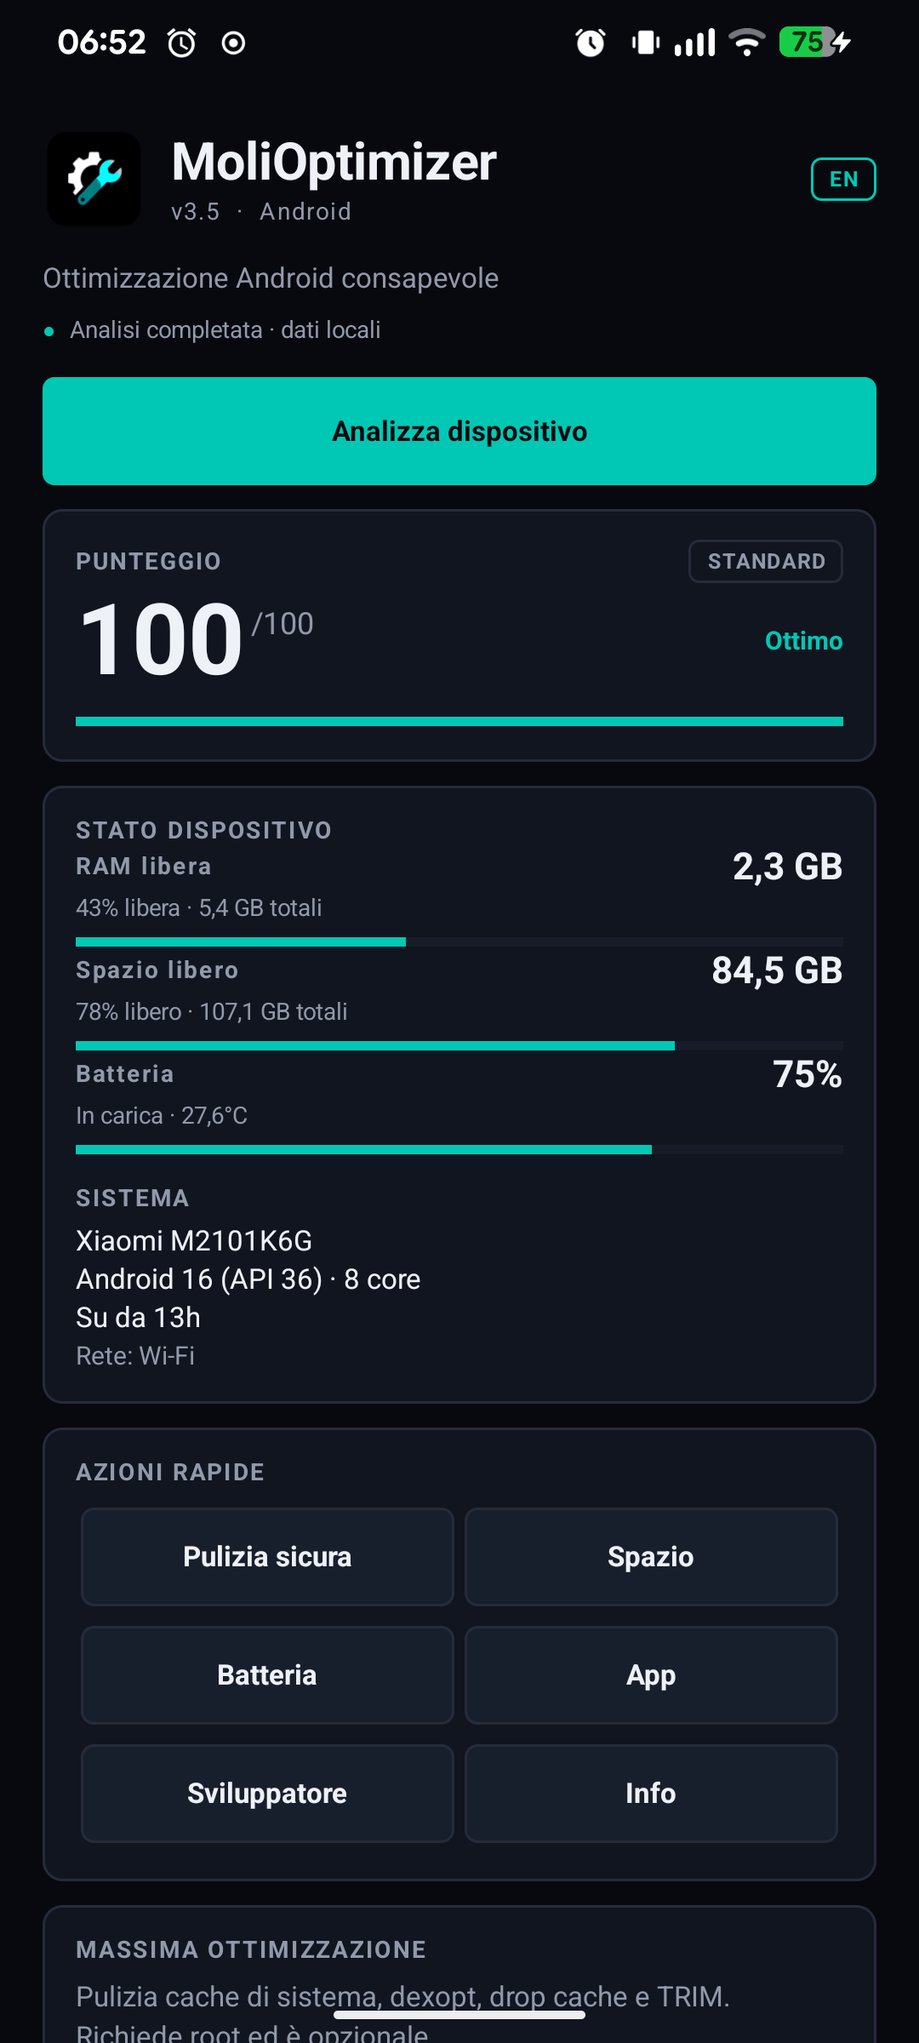
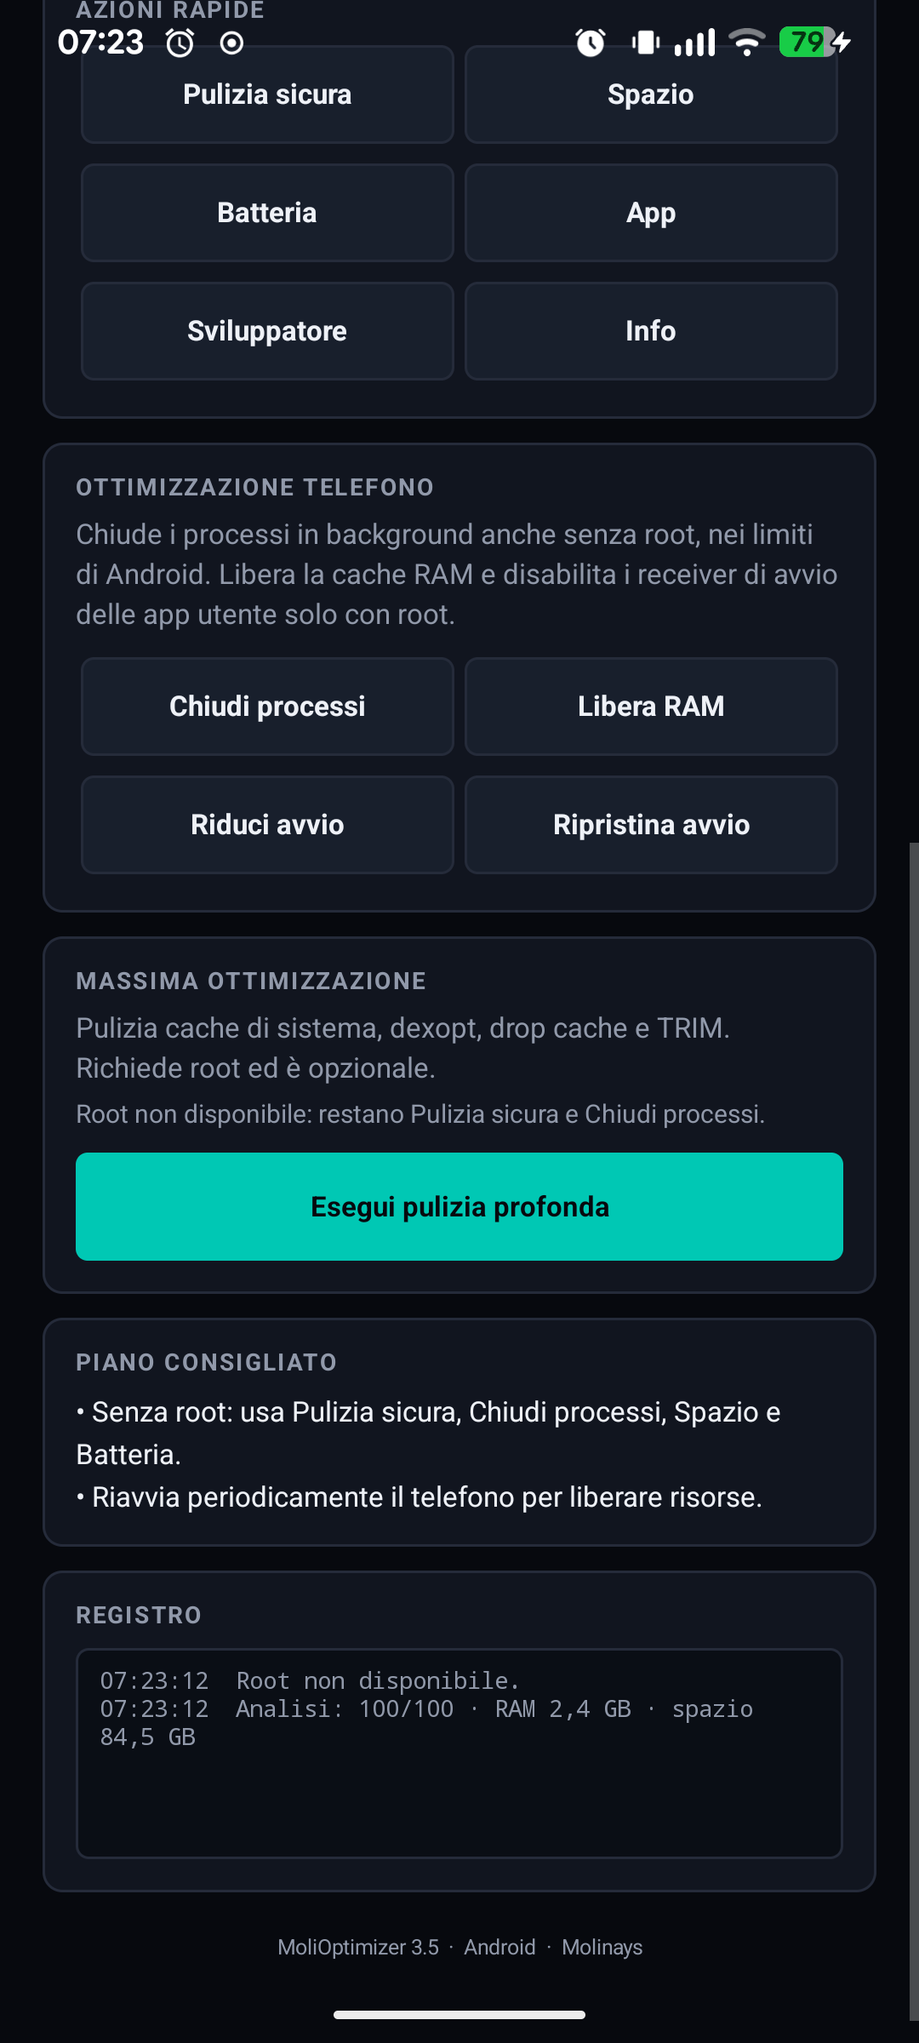
Add files via upload

diff --git a/README.md b/README.md
@@ -2,7 +2,7 @@
   <img src="docs/images/logo.png" alt="MoliOptimizer" width="112" height="112">
 </p>
 
-<h1 align="center">MoliOptimizer 3.5</h1>
+<h1 align="center">MoliOptimizer 4.0</h1>
 
 <p align="center">
   <strong>Ottimizzazione Windows su misura, con backup e ripristino.</strong><br>
@@ -12,7 +12,7 @@
 <p align="center">
   <img alt="Platform" src="https://img.shields.io/badge/PLATFORM-WINDOWS%207%20%7C%2010%20%7C%2011-0078D4?style=for-the-badge&logo=windows&logoColor=white">
   <img alt="Android" src="https://img.shields.io/badge/ANDROID-7%2B-3DDC84?style=for-the-badge&logo=android&logoColor=white">
-  <img alt="Version" src="https://img.shields.io/badge/VERSION-3.5.0-2563EB?style=for-the-badge">
+  <img alt="Version" src="https://img.shields.io/badge/VERSION-4.0.0-2563EB?style=for-the-badge">
   <img alt="Engine" src="https://img.shields.io/badge/ENGINE-POWERSHELL%205.1-5391FE?style=for-the-badge&logo=powershell&logoColor=white">
   <img alt="License" src="https://img.shields.io/badge/LICENSE-PROPRIETARY-DC2626?style=for-the-badge">
 </p>
@@ -20,7 +20,7 @@
 <p align="center">
   <a href="https://github.com/Molinays/MoliOptimizer/releases/latest"><strong>Download</strong></a>
   &nbsp;·&nbsp;
-  <a href="#novità-in-35">Novità 3.5</a>
+  <a href="#novità-in-40">Novità 4.0</a>
   &nbsp;·&nbsp;
   <a href="#funzioni">Funzioni</a>
   &nbsp;·&nbsp;
@@ -38,29 +38,27 @@
 ## Screenshot
 
 <p align="center">
-  <img src="docs/images/web-3.5.png" alt="MoliOptimizer Web 3.5 - Ottimizzazioni" width="900">
+  <img src="docs/images/web-4.0.png" alt="MoliOptimizer Web 4.0 - Ottimizzazioni" width="900">
 </p>
 
-<p align="center"><sub>MoliOptimizer Web 3.5 su Windows: piano personalizzato, stato del PC e console del motore.</sub></p>
+<p align="center"><sub>MoliOptimizer Web 4.0 su Windows: piano personalizzato, stato del PC e console del motore.</sub></p>
 
 <p align="center">
-  <img src="docs/images/fast-3.5.png" alt="MoliOptimizerFast 3.5 - Ottimizzazioni" width="900">
+  <img src="docs/images/android-4.0.png" alt="MoliOptimizer 4.0 su Android" width="300">
 </p>
 
-<p align="center"><sub>MoliOptimizerFast 3.5: interfaccia WinForms nativa, scansione reale e piano consigliato.</sub></p>
+<p align="center"><sub>MoliOptimizer 4.0 su Android: azioni per processi, RAM, avvio, animazioni e cache di sistema.</sub></p>
 
 ---
 
-## Novità in 3.5
+## Novità in 4.0
 
-- **Build 3.5.** Riallineati Windows, web, launcher e Android alla versione `3.5.0`, con rebuild completo e checksum aggiornati.
-- **Popup Fast finalmente cliccabili.** Il filtro globale dei click veniva sospeso solo per le finestre normali, non per i dialoghi modali: ora conferma e resoconto restano interattivi e il filtro viene ripristinato alla chiusura.
-- **Popup più compatti.** Eliminati kicker e spaziature superflue; i messaggi lunghi hanno un'area scorrevole e i pulsanti hanno un click esplicito.
-- **Icona ufficiale ovunque.** Splash, finestra principale e taskbar usano l'icona della v1, non più il segnaposto predefinito di WinForms.
-- **GUI web più sobria.** Rimossi sottotitoli, punteggi duplicati e scritte promozionali; angoli a 3 px, niente gradienti o animazioni decorative.
-- **Distribuzione più lineare.** Fast usa un host .NET in-process senza `ps2exe`; Web e WebSingle servono la UI dalla memoria senza aprire un server HTTP locale.
-- **Versione e documentazione allineate.** Titoli, manifest, pacchetto web, build single-file e controllo aggiornamenti riportano `3.5.0`.
-- **Edizione Android 3.5.** APK nativa separata, con scansione del dispositivo, piano locale, pulizia sicura e modalità root opzionale. Vedi [android/README.md](android/README.md).
+- **Build 4.0 ufficiale.** Windows, web, launcher e Android sono allineati a `4.0.0`; gli artefatti stanno in `dist/v4`.
+- **Fast IT/EN protette.** Il bundle PowerShell non è più in chiaro: viene compresso con GZip, cifrato con AES-256-CBC, autenticato con HMAC-SHA256 e incorporato come risorsa binaria.
+- **Web protette.** Web Host e WebSingle usano il payload cifrato (`Runtime.bin`) e il self-test verifica payload, UI, bridge e runtime.
+- **Android più operativo.** R8 offusca il DEX; nuove azioni root per cache di sistema, animazioni, processi, RAM e receiver di avvio. Senza root resta la chiusura dei processi tramite `killBackgroundProcesses`.
+- **Build più verificabile.** Ogni artefatto ha checksum SHA-256 separato; la build esegue self-test di Fast, Web Host e WebSingle.
+- **Nessuna promessa di zero rilevazioni.** L'offuscamento protegge il codice, ma può aumentare le euristiche antivirus. Firma trusted e riclassificazione vendor restano necessarie per i falsi positivi.
 
 ---
 
@@ -68,14 +66,23 @@
 
 | Pacchetto | Formato | Piattaforma | Note |
 |---|---|---|---|
-| **MoliOptimizer** · `MoliOptimizer.exe` | `.exe` singolo (1,47 MB) | Windows 10/11 x64 | Launcher nativo; estrae host e DLL in `%LOCALAPPDATA%`; richiede WebView2 Runtime |
-| **MoliOptimizer Web Host** · `MoliOptimizer-Web.exe` | `.exe` + DLL WebView2 (427 KB) | Windows 10/11 x64 | Avvio rapido; va eseguito dalla propria cartella |
-| **MoliOptimizerFast IT** · `MoliOptimizerFast-IT.exe` | `.exe` (364 KB) | Windows 7/10, PowerShell 5.1 | Host .NET in-process, payload in chiaro, nessun WebView2, interfaccia italiana |
-| **MoliOptimizerFast EN** · `MoliOptimizerFast-EN.exe` | `.exe` (408 KB) | Windows 7/10, PowerShell 5.1 | Host .NET in-process, payload in chiaro, nessun WebView2, interfaccia inglese |
+| **MoliOptimizer** · `MoliOptimizer.exe` | `.exe` singolo (1,47 MB) | Windows 10/11 x64 | Launcher nativo; host WebView2 protetto; estrae host e DLL in `%LOCALAPPDATA%`; richiede WebView2 Runtime |
+| **MoliOptimizer Web Host** · `MoliOptimizer-Web.exe` | `.exe` + DLL WebView2 (427 KB) | Windows 10/11 x64 | Host WebView2; va eseguito dalla propria cartella |
+| **MoliOptimizerFast IT** · `MoliOptimizerFast-IT.exe` | `.exe` (124 KB) | Windows 7/10, PowerShell 5.1 | Host .NET in-process, payload cifrato, nessun WebView2, interfaccia italiana |
+| **MoliOptimizerFast EN** · `MoliOptimizerFast-EN.exe` | `.exe` (137 KB) | Windows 7/10, PowerShell 5.1 | Host .NET in-process, payload cifrato, nessun WebView2, interfaccia inglese |
 
-Scarica l'ultima release da [GitHub Releases](https://github.com/Molinays/MoliOptimizer/releases/latest). Gli hash SHA-256 sono pubblicati in `dist/v3/SHA256SUMS.txt`.
+Scarica l'ultima release da [GitHub Releases](https://github.com/Molinays/MoliOptimizer/releases/latest). Gli hash SHA-256 sono pubblicati in `dist/v4/SHA256SUMS.txt`.
 
 Nessun installer e nessun servizio persistente. La scansione iniziale è in sola lettura; le modifiche richiedono selezione, conferma e, per le operazioni privilegiate, UAC.
+
+### Cosa c'è in `dist/v4`
+
+- `MoliOptimizer.exe` è la **WebSingle**: un solo file con launcher nativo, host WebView2 e DLL incorporati. Non è una copia di `web/`; estrae il pacchetto in `%LOCALAPPDATA%\MoliOptimizer\WebSingle\4.0.0-*` e avvia l'host.
+- `web/MoliOptimizer-Web.exe` è l'**host WebView2**: va eseguito con le DLL WebView2 che ha accanto. È la variante da cartella, più piccola.
+- `classic/` contiene **MoliOptimizerFast** IT/EN, l'edizione WinForms per Windows 7/10 con PowerShell 5.1.
+- `SHA256SUMS.txt` copre tutti gli exe della release.
+
+La vecchia `dist/v3` resta solo come archivio della serie 3.5.
 
 ---
 
@@ -83,17 +90,15 @@ Nessun installer e nessun servizio persistente. La scansione iniziale è in sola
 
 La cartella [`android/`](android/README.md) contiene una **APK nativa per Android 7+**, separata dalla release Windows. Non è un porting 1:1: Android non ha registro o servizi Windows, quindi l'app implementa le azioni realmente disponibili.
 
-<p align="center">
-  <img src="docs/images/android-3.5.png" alt="MoliOptimizer 3.5 su Android" width="300">
-</p>
-
 - Scansione di RAM, spazio, batteria, temperatura, rete e sistema con punteggio locale.
 - Piano consigliato e toggle IT/EN.
 - Pulizia sicura della cache dell'app e scorciatoie alle impostazioni di sistema.
-- Modalità root opzionale per `pm trim-caches`, dexopt, `drop_caches` e `fstrim`.
-- Nessun permesso Internet, nessun analytics, nessuna connessione in background.
+- **Chiusura dei processi in background anche senza root**, nei limiti di `killBackgroundProcesses`.
+- **Con root**: `am kill-all`, pulizia cache RAM, pulizia cache di sistema, riduzione animazioni, disabilitazione dei receiver di avvio delle app utente e ripristino.
+- **Pulizia profonda** con `am kill-all`, `pm trim-caches`, dexopt, `drop_caches` e `fstrim`.
+- DEX offuscato con R8; nessun permesso Internet, nessun analytics, nessuna connessione in background.
 
-APK generato in `android/dist/MoliOptimizer-3.5.0-android.apk` (cartella locale, esclusa da Git) con checksum separato. Istruzioni e limiti: [`android/README.md`](android/README.md). La build è firmata con chiave debug per il test; per la distribuzione serve una chiave release.
+APK generato in `android/dist/MoliOptimizer-4.0.0-android.apk` (cartella locale, esclusa da Git) con checksum separato. Istruzioni e limiti: [`android/README.md`](android/README.md). La build è firmata con chiave debug per il test; per la distribuzione serve una chiave release.
 
 ---
 
@@ -141,21 +146,29 @@ APK generato in `android/dist/MoliOptimizer-3.5.0-android.apk` (cartella locale,
 
 ---
 
-## Distribuzione e falsi positivi
+## Protezione e falsi positivi
 
-Le build pubbliche 3.5 non usano `ps2exe`, non aprono un server HTTP locale e non cifrano il payload:
+La release 4.0 è **offuscata**:
 
-- **Fast:** il bundle PowerShell viene incorporato in chiaro in un host .NET che lo esegue in-process con PowerShell 5.1. Non viene creato alcun `.ps1` in `%TEMP%`, non c'è un payload compresso/cifrato e non c'è il wrapper `ps2exe` che generava la famiglia `MSIL.Krypt`.
-- **Web Host:** UI, bridge e helper sono in un payload ZIP compresso dentro l'exe. La UI viene servita a WebView2 tramite `WebResourceRequested`, senza listener `127.0.0.1` e senza una cartella `ui` accanto al programma.
-- **WebSingle:** un launcher nativo x64 incorpora host e DLL WebView2 in un contenitore non compresso, li estrae in `%LOCALAPPDATA%` e avvia l'host. Il file esterno non è un assembly .NET.
+- **Fast:** bundle PowerShell compresso, cifrato e autenticato, incorporato come risorsa binaria. L'host lo decifra solo in memoria e lo esegue in-process con PowerShell 5.1. Non viene creato alcun `.ps1` in `%TEMP%` e non viene usato `ps2exe`.
+- **Web Host e WebSingle:** UI, bridge e helper sono in un payload cifrato dentro l'exe. La UI viene servita a WebView2 tramite `WebResourceRequested`, senza listener `127.0.0.1`.
+- **WebSingle:** un launcher nativo x64 incorpora host e DLL WebView2 in un contenitore non compresso, li estrae in `%LOCALAPPDATA%` e avvia l'host.
 - **Bridge web:** viene scritto solo in una cartella runtime nascosta, con nome legato al payload e al processo, e cancellato alla chiusura.
-- **Nessun sorgente sciolto in `dist/v3`:** la build verifica che non restino `.ps1`, `.js`, `.html` o `.css` nel pacchetto web.
+- **Android:** R8 rinomina e riduce il DEX; `MainActivity` resta l'unica classe pubblica necessaria al manifest.
 
-La build pubblica è quindi più semplice da analizzare e da firmare, ma **non è offuscata**: chi estrae il payload può recuperare UI, bridge e script. È una scelta deliberata per ridurre i falsi positivi euristica/ML; non è una garanzia contro l'analisi. La build con payload cifrato resta disponibile solo come opzione interna (`Build-WebHost.ps1 -Protect`) e non va pubblicata come release.
+L'offuscamento **non garantisce zero rilevazioni**. Al contrario, packer e payload cifrati possono attivare euristiche ML. Per ridurre davvero i falsi positivi servono una firma Authenticode con certificato trusted e la riclassificazione presso i vendor; senza certificato nessun rebuild può garantirlo.
 
-Per azzerare i falsi positivi residui serve una firma Authenticode con certificato trusted e la riclassificazione presso i vendor; senza certificato nessun rebuild può garantire 0 rilevazioni su tutti i motori. La procedura è in [docs/security/false-positive-mcafee-secureage.md](docs/security/false-positive-mcafee-secureage.md).
+Per una variante trasparente di diagnosi o per i vendor che richiedono una build non offuscata:
 
-> Se hai usato build precedenti alla 3.5, elimina le vecchie cartelle `%LOCALAPPDATA%\MoliOptimizer\WebSingle\3.0.0-*` prima di distribuire il PC: contengono i sorgenti delle versioni vecchie. Le build 3.5 non ne creano più.
+```powershell
+.\build\Build-All.ps1 -Transparent
+```
+
+Questa variante non è la release ufficiale: se la esegui, ricostruisci poi la release protetta prima di distribuire.
+
+La procedura per i vendor è in [docs/security/false-positive-mcafee-secureage.md](docs/security/false-positive-mcafee-secureage.md).
+
+> Se hai usato build precedenti alla 4.0, elimina le vecchie cartelle `%LOCALAPPDATA%\MoliOptimizer\WebSingle\3.*` prima di distribuire il PC: contengono i payload delle versioni vecchie. Le build 4.0 usano `4.0.0-*`.
 
 ---
 
@@ -189,6 +202,7 @@ Per azzerare i falsi positivi residui serve una firma Authenticode con certifica
 | Ideale per | PC moderni e UI più aggiornabile | PC datati e ambienti senza WebView2 |
 | Motore | PowerShell modulare | PowerShell modulare |
 | Backup | Sì | Sì |
+| Payload | Cifrato | Cifrato |
 
 Entrambe le edizioni usano lo stesso motore, gli stessi cataloghi e lo stesso formato di backup. La web è più comoda da aggiornare; Fast è la scelta quando WebView2 non è disponibile o le risorse sono limitate.
 
@@ -228,7 +242,7 @@ L'app non applica nulla senza una selezione esplicita e una conferma. Le operazi
 
 ## Aggiornamenti
 
-La versione applicazione è **3.5.0**. La release più recente è disponibile su GitHub:
+La versione applicazione è **4.0.0**. La release più recente è disponibile su GitHub:
 
 https://github.com/Molinays/MoliOptimizer/releases/latest
 
@@ -248,21 +262,24 @@ MoliOptimizer non installa aggiornamenti in background e non esegue modifiche au
 Il motore resta modulare in `src/`, la GUI web in `web/`, gli script di build in `build/`. La cartella `Old/` contiene solo versioni storiche e non viene usata dalla build.
 
 ```powershell
-# Build completa Windows: Fast IT/EN, Web Host e WebSingle
+# Build completa Windows v4: Fast IT/EN, Web Host e WebSingle protetti
 .\build\Build-All.ps1
 
-# Build APK Android (cartella separata)
+# Variante trasparente per diagnosi/vendor
+.\build\Build-All.ps1 -Transparent
+
+# Build APK Android v4 (R8 + firma debug)
 .\android\build-apk.ps1
 
-# Solo MoliOptimizerFast
-.\build\Build-Exe.ps1 -Lang IT
-.\build\Build-Exe.ps1 -Lang EN
+# Solo MoliOptimizerFast protetta
+.\build\Build-Exe.ps1 -Lang IT -Protect
+.\build\Build-Exe.ps1 -Lang EN -Protect
 
-# Web Host, senza Rust/MSVC (payload compresso, non cifrato)
-.\build\Build-WebHost.ps1
+# Web Host protetto
+.\build\Build-WebHost.ps1 -Protect
 
-# Web in un solo file: launcher nativo x64 + host e DLL incorporati
-.\build\Build-WebSingle.ps1
+# Web in un solo file protetto
+.\build\Build-WebSingle.ps1 -Protect -WebOut dist\v4\web -OutFile dist\v4\MoliOptimizer.exe
 
 # Solo sviluppo: guscio Tauri, finisce in dist/dev/web
 .\build\Build-Web.ps1
@@ -276,7 +293,7 @@ npm run dev
 # http://127.0.0.1:5178
 ```
 
-`Build-WebHost.ps1` è il percorso di release web: incorpora UI e motore in un payload ZIP e serve la UI dalla memoria, senza server HTTP. `Build-WebSingle.ps1` richiede `gcc` e `windres` (MinGW-w64 x86_64) e produce il launcher nativo. Il guscio Tauri (`Build-Web.ps1`) resta solo per lo sviluppo e non va usato per distribuire una build sorgente. Per una build interna cifrata usare `Build-WebHost.ps1 -Protect`; non è la build pubblica.
+`Build-WebHost.ps1` è il percorso di release web: incorpora UI e motore in un payload cifrato e serve la UI dalla memoria, senza server HTTP. `Build-WebSingle.ps1` richiede `gcc` e `windres` (MinGW-w64 x86_64) e produce il launcher nativo. Il guscio Tauri (`Build-Web.ps1`) resta solo per lo sviluppo e non va usato per distribuire una build sorgente.
 
 Verifiche principali:
 
@@ -286,9 +303,9 @@ Verifiche principali:
 .\build\Test-Startup.ps1
 ```
 
-Se un exe è aperto, la build deve fallire con un messaggio chiaro: non dichiarare mai un falso successo. I bundle classici in chiaro vengono creati solo in `%TEMP%` e rimossi a fine build; in `dist/v3` non restano sorgenti: solo exe, DLL WebView2, favicon e `SHA256SUMS.txt`.
+Se un exe è aperto, la build deve fallire con un messaggio chiaro: non dichiarare mai un falso successo. I bundle classici in chiaro vengono creati solo in `%TEMP%` e rimossi a fine build; in `dist/v4` non restano sorgenti: solo exe, DLL WebView2, favicon e `SHA256SUMS.txt`.
 
-La versione 3.5 usa `dist/v3` come cartella della serie 3.x: il numero nella cartella indica l'architettura di build, non la minor release.
+La release ufficiale usa `dist/v4`; `dist/v3` resta l'archivio della 3.5.
 
 </details>
 
@@ -318,5 +335,5 @@ Le ottimizzazioni possono modificare il comportamento del sistema operativo. Ver
 
 <p align="center">
   <strong>Made by Molinays</strong><br>
-  <sub>MoliOptimizer 3.5 · Windows 7/10/11 · Android 7+</sub>
+  <sub>MoliOptimizer 4.0 · Windows 7/10/11 · Android 7+</sub>
 </p>

diff --git a/docs/security/false-positive-mcafee-secureage.md b/docs/security/false-positive-mcafee-secureage.md
@@ -4,9 +4,9 @@ Questo documento serve a richiedere la riclassificazione di MoliOptimizer a McAf
 
 ## Dati dell'applicazione
 
-- Prodotto: MoliOptimizer v3.5 (web) e MoliOptimizerFast v3.5 (PowerShell)
+- Prodotto: MoliOptimizer v4.0 (web) e MoliOptimizerFast v4.0 (PowerShell)
 - Autore: Molinays
-- Versione: 3.5.0
+- Versione: 4.0.0
 - Repository: https://github.com/Molinays/MoliOptimizer
 - Release: https://github.com/Molinays/MoliOptimizer/releases
 - Tipo: ottimizzatore Windows con GUI web e GUI classica
@@ -19,10 +19,10 @@ Questi sono gli artefatti attuali, ancora non firmati. Dopo la firma gli hash ca
 
 | File | SHA-256 | Dimensione |
 |---|---|---|
[8 lines of base64/hex data omitted]
 
 ## Comportamento dichiarato
 
@@ -33,7 +33,7 @@ MoliOptimizer:
 - salva un backup in `%ProgramData%\MoliOptimizer` e permette il ripristino;
 - usa PowerShell per le operazioni di sistema e richiede l'elevazione per registro, servizi, Appx e alimentazione;
 - nell'edizione web serve la GUI a WebView2 tramite risorse intercettate, senza aprire un server HTTP locale;
-- nella build pubblica 3.5 il payload web è compresso ma non cifrato, mentre il bundle Fast è incorporato in chiaro; non usa `ps2exe` e non è un packer di evasione;
+- la release 4.0 usa payload Fast e Web cifrati; la variante trasparente per l'analisi si crea con `Build-All.ps1 -Transparent`; non usa `ps2exe` e non è un packer di evasione;
 - non installa servizi persistenti, non crea driver e non stabilisce connessioni di comando e controllo;
 - contatta GitHub solo per il controllo aggiornamenti e usa i collegamenti ufficiali per winget e ISO.
 
@@ -86,26 +86,26 @@ Selezionare la segnalazione come falso positivo, allegare il file della release 
 
 ## Testo pronto per la segnalazione
 
-> Oggetto: False positive report - MoliOptimizer v3.5 - Molinays
+> Oggetto: False positive report - MoliOptimizer v4.0 - Molinays
 >
-> We are reporting a false positive for MoliOptimizer v3.5, a Windows optimization application published by Molinays.
+> We are reporting a false positive for MoliOptimizer v4.0, a Windows optimization application published by Molinays.
 >
 > File: [nome file]
 > SHA-256: [hash della build firmata]
-> Version: 3.5.0
+> Version: 4.0.0
 > Detection: [nome esatto McAfee/SecureAge]
 > VirusTotal: [link al report]
 >
 > MoliOptimizer scans hardware, installed applications, services and startup entries. It applies only user-selected optimizations, creates a backup before changes, and provides a restore function. The application uses PowerShell 5.1 for system operations and requests administrator rights only for registry, services, Appx and power changes. It does not install a service or driver and does not use command-and-control infrastructure. The web edition serves its UI to WebView2 from memory and does not open an HTTP listener.
 >
-> The attached build is the public MoliOptimizer 3.5 artifact. Please review the detection and allowlist the file if it is confirmed clean. A trusted code-signing certificate is the remaining release step; if a signed artifact is required for the review, request it from Molinays.
+> The attached build is the MoliOptimizer 4.0 artifact (or the transparent 4.0 build if requested). Please review the detection and allowlist the file if it is confirmed clean. A trusted code-signing certificate is the remaining release step; if a signed artifact is required for the review, request it from Molinays.
 >
 > Repository: https://github.com/Molinays/MoliOptimizer
 
 ## Dopo l'invio
 
 - Non disattivare McAfee, SecureAge o Defender e non aggiungere esclusioni.
-- La build pubblica 3.5 non cifra il payload: UI, bridge e script sono recuperabili da chi analizza il file. L'opzione interna `Build-WebHost.ps1 -Protect` protegge il codice proprietario ma non è pensata per eludere il motore e non va pubblicata. Se il vendor chiede una build non offuscata per l'analisi, fornire la build pubblica insieme all'artefatto firmato.
+- La release 4.0 cifra il payload: UI, bridge e script non sono recuperabili come file in chiaro, ma l'offuscamento non è pensato per eludere il motore. Se il vendor chiede una build non offuscata per l'analisi, fornire `Build-All.ps1 -Transparent` insieme all'artefatto firmato.
 - Ricaricare il file su VirusTotal dopo la risposta del vendor e verificare che le due rilevazioni siano sparite.
-- la build 3.5 ha già rimosso `ps2exe` (Fast), il server HTTP locale (Web) e il launcher .NET esterno (WebSingle); se un motore continua a rilevare, il passo successivo è la firma trusted e la riclassificazione vendor, non un ulteriore imballaggio.
-- i due report indicati dall'utente sono: `https://www.virustotal.com/gui/file/1f8b21bfc1ce339d59b23b23f9547cecc954eb6088774e30daf6201a763a9ad6` e `https://www.virustotal.com/gui/file/b469816cfe400b59f65a961e306e9eea54df78e866b1d72d0c8ac79d407f75d7`. I file 3.5 hanno hash nuovi: vanno ricaricati su VirusTotal per una nuova analisi.
+- la build 4.0 ha già rimosso `ps2exe` (Fast), il server HTTP locale (Web) e il launcher .NET esterno (WebSingle); se un motore continua a rilevare, il passo successivo è la firma trusted e la riclassificazione vendor, non un ulteriore imballaggio.
+- i file 4.0 hanno hash nuovi: vanno ricaricati su VirusTotal per una nuova analisi.
